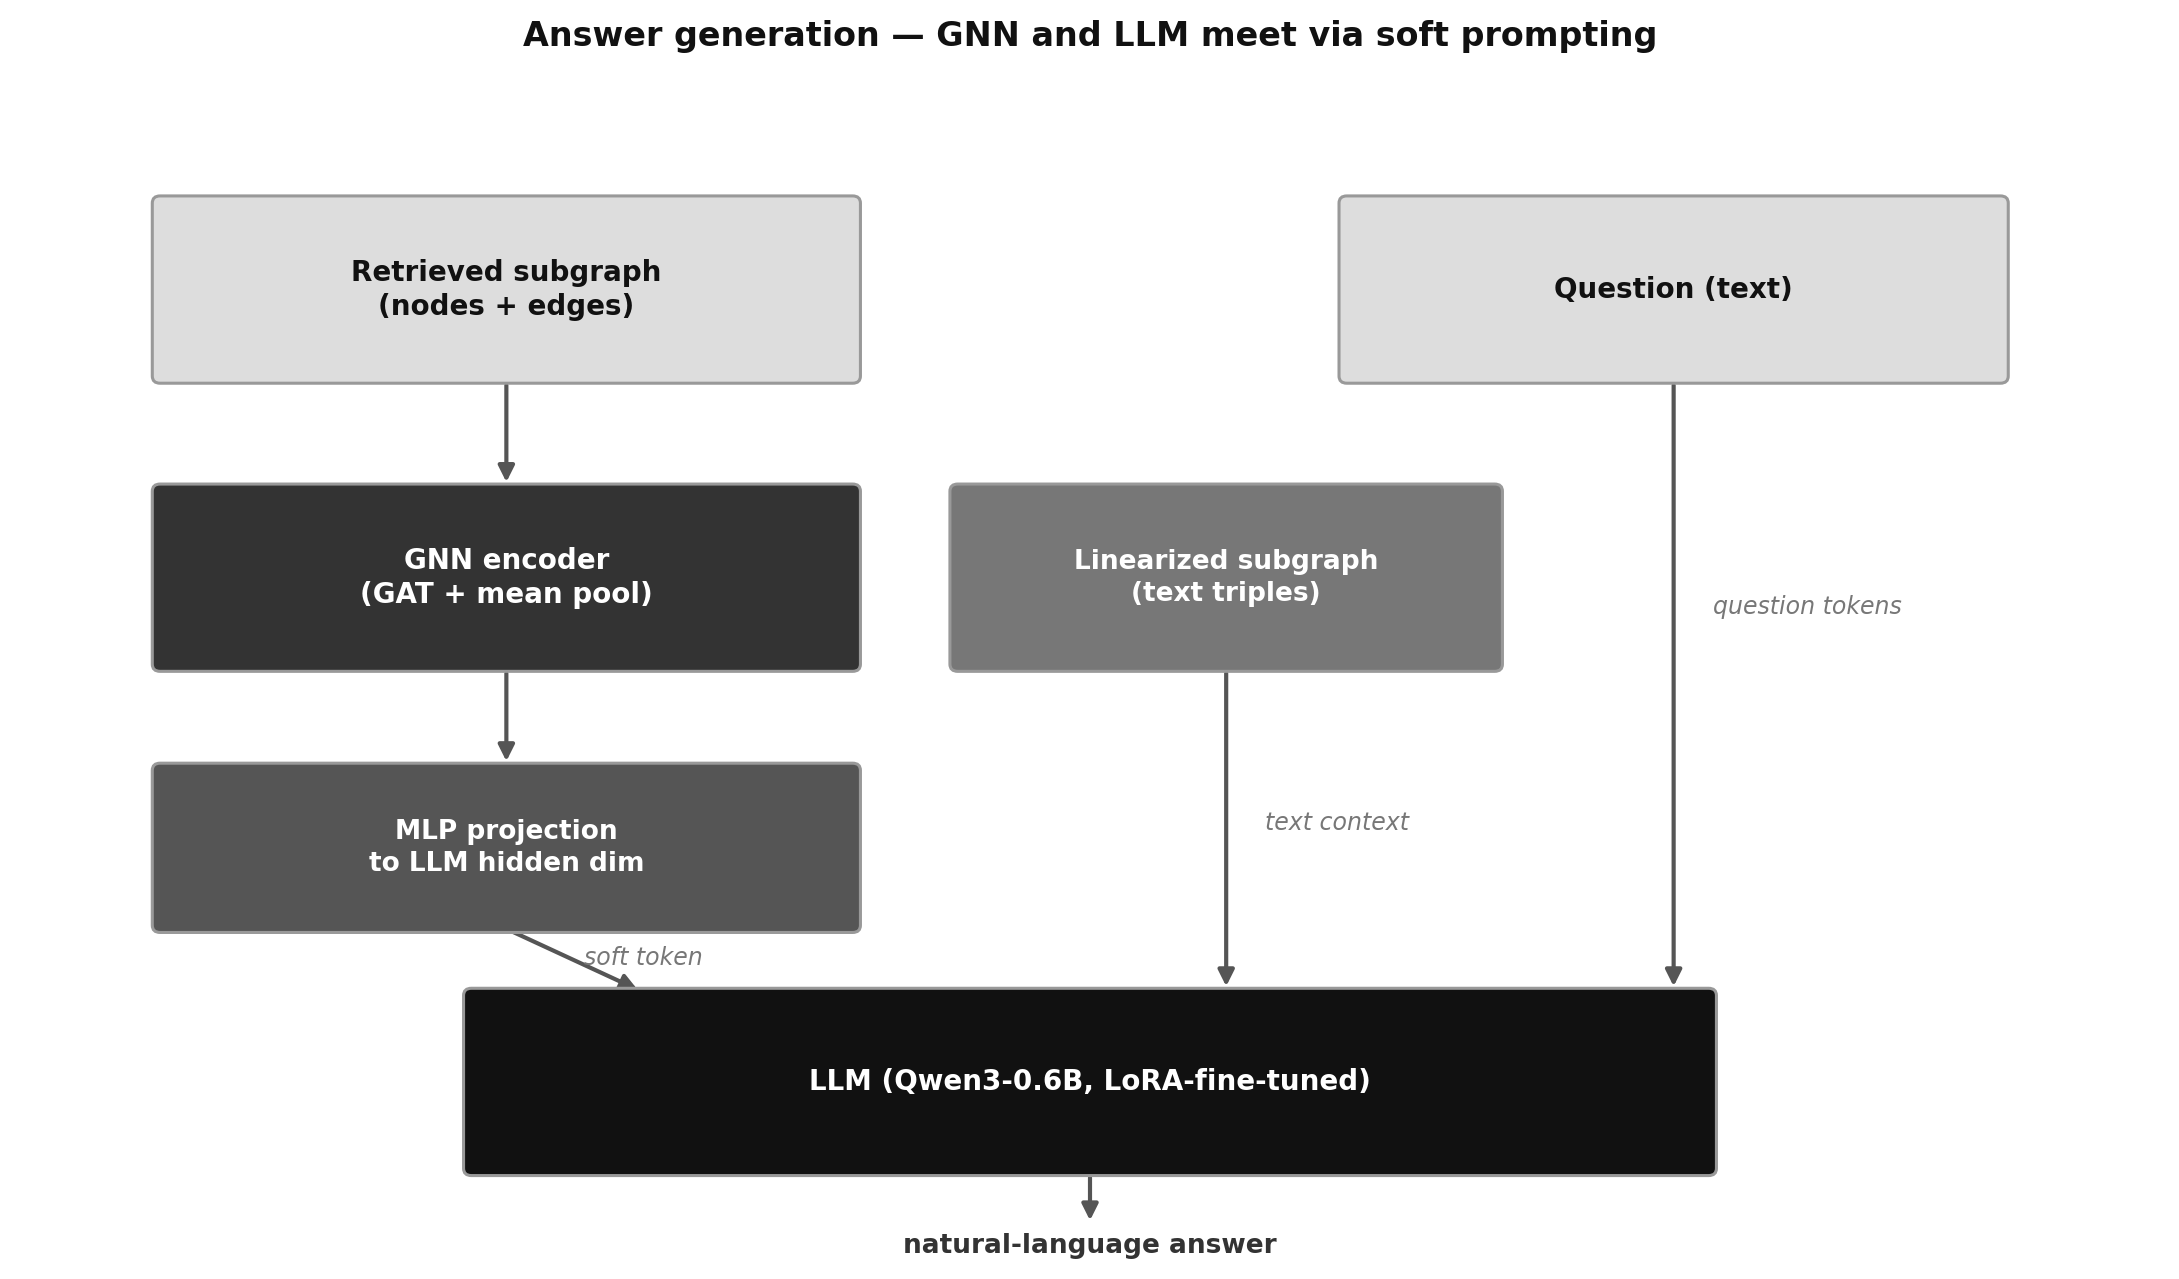
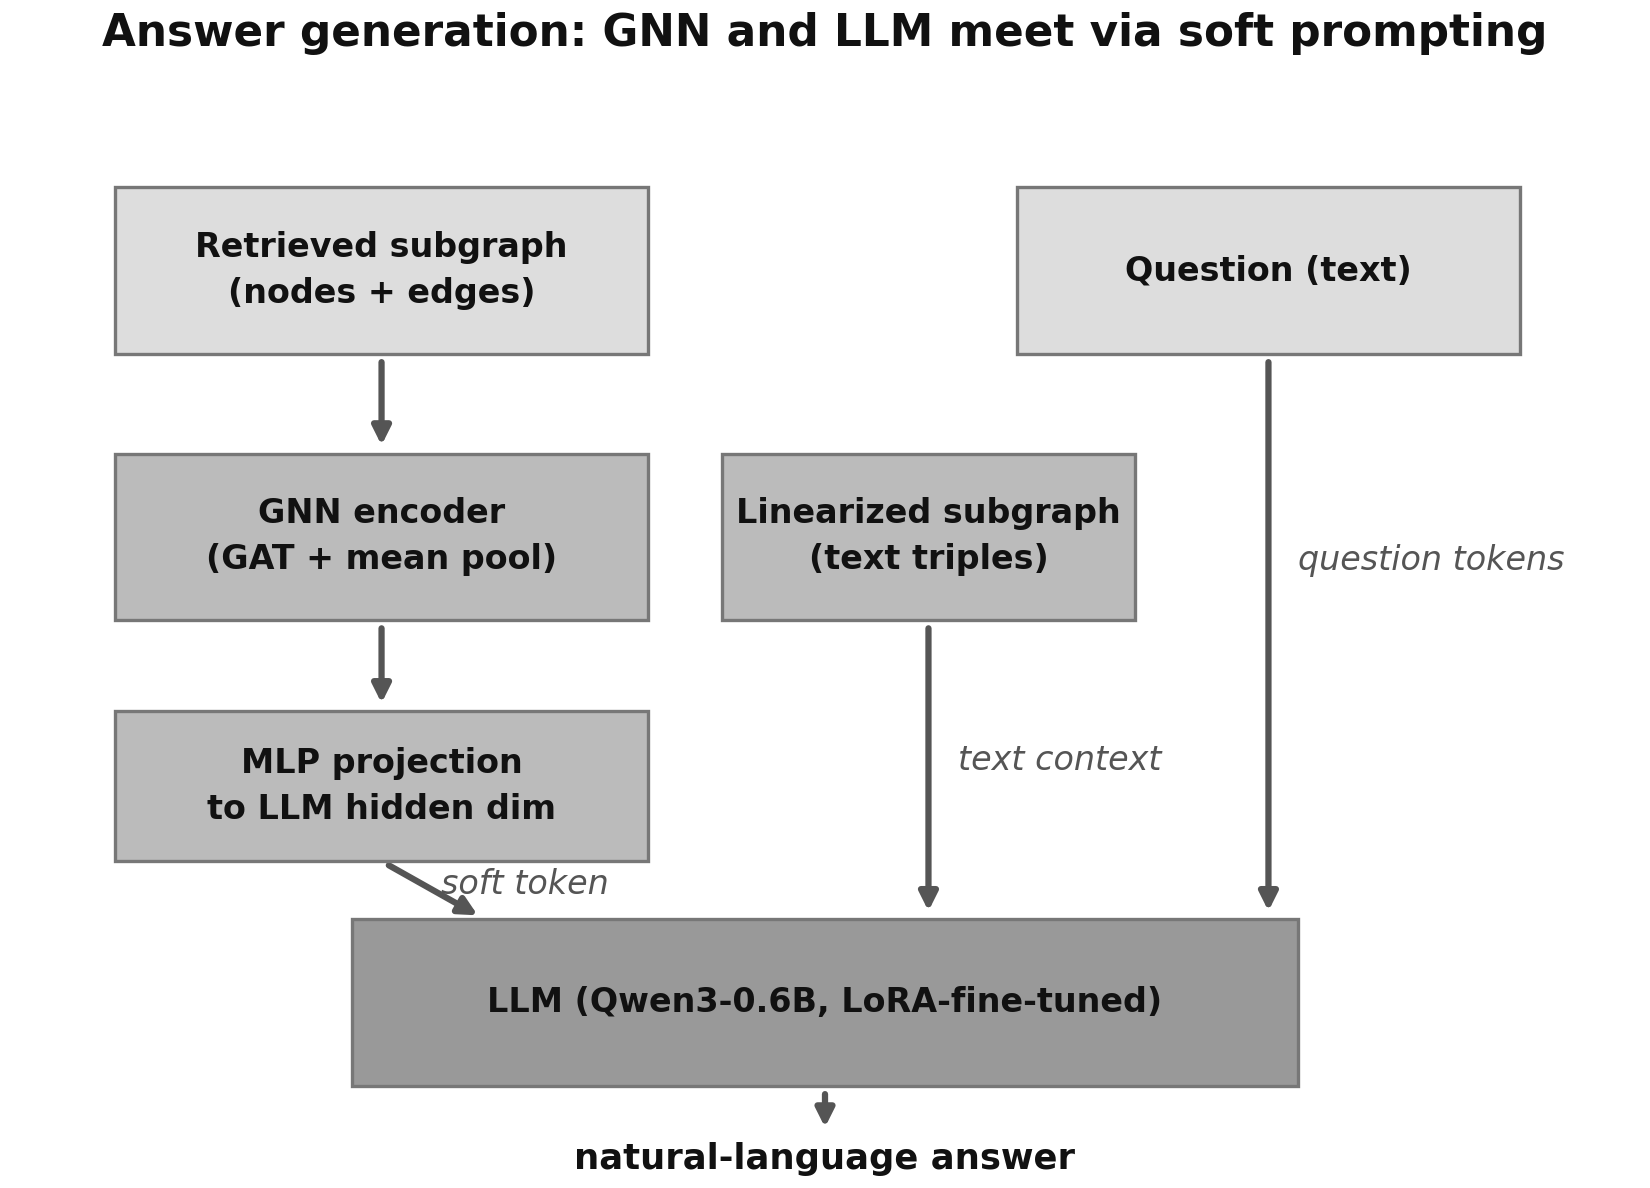
Redraw Chapter 19's three figures at the printed width
All three were rejected for readability. The G-Retriever pipeline ran its four
stages across 13 inches and now runs down the page, each stage beside what
feeds it. 19.3 stacks its two panels: side by side, the right-hand panel's
category labels would have taken most of its 2.7 inches.

The run reproduces the baseline: 334 samples both models answer correctly, 11
only G-Retriever, 13 only the LoRA baseline, 40 neither.

diff --git a/Chapter19/figures/generate_figures.py b/Chapter19/figures/generate_figures.py
@@ -8,132 +8,112 @@ fig19_2_soft_prompting.png        answer generation with soft prompting
 Figure 19.3 is derived from the test results and produced by run.py.
 """
 
-import matplotlib
-matplotlib.use('Agg')
-import matplotlib.pyplot as plt
-from matplotlib.patches import FancyBboxPatch
 import os
+import sys
 
-OUT  = os.path.dirname(os.path.abspath(__file__))
+from matplotlib.patches import Rectangle
+
+sys.path.insert(0, os.path.join(os.path.dirname(os.path.abspath(__file__)),
+                                '..', '..', 'tools'))
+from bookstyle import (apply, figure, save as save_fig, FONT, BG, INK,
+                       INK_SOFT, FILLS, G1, G2, G3, G4, G5, G6)
+
+plt = apply()
+G0 = "#111111"
+OUT = os.path.dirname(os.path.abspath(__file__))
 os.makedirs(OUT, exist_ok=True)
 
-FONT = "DejaVu Sans"
-BG   = "white"
-G0   = "#111111"; G1 = "#333333"; G2 = "#555555"
-G3   = "#777777"; G4 = "#999999"; G5 = "#BBBBBB"; G6 = "#DDDDDD"
 
-
-def save(fig, name, dpi=200):
-    fig.savefig(f"{OUT}/{name}", dpi=dpi, bbox_inches='tight',
-                facecolor=BG, edgecolor='none')
-    plt.close(fig)
+def save(fig, name):
+    save_fig(fig, os.path.join(OUT, name))
     print(f"  saved {name}")
 
 
-def rbox(ax, x, y, w, h, label, fill=G2, fc='white', fs=9, r=0.04):
-    rect = FancyBboxPatch((x-w/2, y-h/2), w, h,
-                          boxstyle=f"round,pad=0.02,rounding_size={r}",
-                          facecolor=fill, edgecolor=G4,
-                          linewidth=1.1, zorder=3)
-    ax.add_patch(rect)
-    ax.text(x, y, label, ha='center', va='center', fontsize=fs, color=fc,
-            fontweight='bold', fontfamily=FONT, linespacing=1.3,
+def rbox(ax, x, y, w, h, label, fill=G6, fc=None, fs=8, r=0.04):
+    """Square corners, dark type on a light fill; `fc` is ignored."""
+    ax.add_patch(Rectangle((x-w/2, y-h/2), w, h, facecolor=fill,
+                           edgecolor=G3, linewidth=0.8, zorder=3))
+    ax.text(x, y, label, ha='center', va='center', fontsize=fs, color=INK,
+            fontweight='bold', fontfamily=FONT, linespacing=1.5,
             multialignment='center', zorder=4)
 
 
-def arr(ax, x1, y1, x2, y2, color=G2, lw=1.4, style="-|>"):
+def arr(ax, x1, y1, x2, y2, color=G3, lw=1.1, style="-|>"):
     ax.annotate("", xy=(x2, y2), xytext=(x1, y1),
                 arrowprops=dict(arrowstyle=style, color=color,
-                                lw=lw, mutation_scale=12), zorder=2)
+                                lw=lw, mutation_scale=9), zorder=2)
 
 
-# ── Fig 19.1: G-Retriever pipeline (4 stages) ────────────────────────────────
-print("Figure 19.1 …")
-fig, ax = plt.subplots(figsize=(13, 5.5))
-fig.patch.set_facecolor(BG); ax.set_facecolor(BG); ax.axis('off')
-ax.set_xlim(0, 13); ax.set_ylim(0, 5.5)
+# ── Fig 19.1: G-Retriever pipeline (4 stages) ───────────────────────
+# Four stages across needed 13 inches. They run down the page instead, each
+# with what goes into it on its left.
+print("Figure 19.1 \u2026")
+fig, ax = figure(aspect=0.92)
+ax.set_facecolor(BG); ax.axis('off')
+ax.set_xlim(0, 1); ax.set_ylim(0, 1)
 
-# Timeline labels
-ax.text(2.0, 4.6, "1. Indexing (offline)", ha='center', fontsize=10,
-        color=G3, fontfamily=FONT, fontstyle='italic')
-ax.text(5.3, 4.6, "2. Retrieval", ha='center', fontsize=10,
-        color=G3, fontfamily=FONT, fontstyle='italic')
-ax.text(8.4, 4.6, "3. Subgraph construction", ha='center', fontsize=10,
-        color=G3, fontfamily=FONT, fontstyle='italic')
-ax.text(11.5, 4.6, "4. Answer generation", ha='center', fontsize=10,
-        color=G3, fontfamily=FONT, fontstyle='italic')
+STAGES = [
+    ("1. Indexing (offline)", "knowledge graph",
+     "SentenceBERT embeddings\nof nodes and edges"),
+    ("2. Retrieval", "user question",
+     "cosine similarity:\nquery vs nodes and edges"),
+    ("3. Subgraph construction", "scored nodes/edges",
+     "Prize-Collecting\nSteiner Tree (pcst_fast)"),
+    ("4. Answer generation", "connected subgraph",
+     "GNN encoder + LLM\n(soft prompt)"),
+]
+TOP, STEP = 0.90, 0.215
+for i, (phase, feed, stage) in enumerate(STAGES):
+    y = TOP - i * STEP
+    ax.text(0.0, y + 0.085, phase, ha='left', va='center', fontsize=8,
+            color=INK_SOFT, fontfamily=FONT, fontstyle='italic')
+    rbox(ax, 0.20, y, 0.36, 0.085, feed, fill=G6, fs=8)
+    arr(ax, 0.39, y, 0.46, y)
+    rbox(ax, 0.74, y, 0.48, 0.125, stage, fill=FILLS[1], fs=8)
+    if i:
+        arr(ax, 0.74, y + STEP - 0.063, 0.74, y + 0.063)
 
-# Stage boxes
-rbox(ax, 2.0, 3.5, 2.6, 1.1, "SentenceBERT\nnode + edge\nembeddings",
-     fill=G1, fc='white', fs=9)
-rbox(ax, 5.3, 3.5, 2.6, 1.1, "cosine similarity\nquery vs\nnodes/edges",
-     fill=G2, fc='white', fs=9)
-rbox(ax, 8.4, 3.5, 2.6, 1.1, "Prize-Collecting\nSteiner Tree\n(pcst_fast)",
-     fill=G0, fc='white', fs=9)
-rbox(ax, 11.5, 3.5, 2.6, 1.1, "GNN encoder\n+ LLM\n(soft prompt)",
-     fill=G1, fc='white', fs=9)
+arr(ax, 0.74, 0.192, 0.74, 0.115)
+ax.text(0.74, 0.07, "natural-language answer", ha='center', va='center',
+        fontsize=8.5, color=INK, fontweight='bold', fontfamily=FONT)
 
-# Arrows between stages
-arr(ax, 3.4, 3.5, 4.0, 3.5, color=G2, lw=1.6)
-arr(ax, 6.7, 3.5, 7.1, 3.5, color=G2, lw=1.6)
-arr(ax, 9.8, 3.5, 10.2, 3.5, color=G2, lw=1.6)
-
-# Inputs/outputs (row below)
-rbox(ax, 2.0, 1.6, 2.4, 0.7, "knowledge graph", fill=G6, fc=G0, fs=8.5)
-rbox(ax, 5.3, 1.6, 2.4, 0.7, "user question", fill=G6, fc=G0, fs=8.5)
-rbox(ax, 8.4, 1.6, 2.4, 0.7, "scored nodes/edges", fill=G6, fc=G0, fs=8.5)
-rbox(ax, 11.5, 1.6, 2.4, 0.7, "connected subgraph", fill=G6, fc=G0, fs=8.5)
-
-# Vertical connectors (inputs go up into the stage boxes)
-arr(ax, 2.0, 1.95, 2.0, 2.85, color=G3, lw=1.2)
-arr(ax, 5.3, 1.95, 5.3, 2.85, color=G3, lw=1.2)
-arr(ax, 8.4, 1.95, 8.4, 2.85, color=G3, lw=1.2)
-arr(ax, 11.5, 1.95, 11.5, 2.85, color=G3, lw=1.2)
-
-# Final output arrow (bottom right, out of stage 4)
-ax.text(11.5, 0.5, "natural-language answer",
-        ha='center', fontsize=9.5, color=G1, fontfamily=FONT,
-        fontweight='bold')
-
-ax.set_title("The four stages of G-Retriever",
-             fontsize=12, fontweight='bold', color=G0, fontfamily=FONT,
-             pad=10)
-fig.tight_layout()
+ax.set_title("The four stages of G-Retriever", fontsize=10.5,
+             fontweight='bold', color=INK, fontfamily=FONT)
 save(fig, "fig19_1_gretriever_pipeline.png")
 
 
 # ── Fig 19.2: Answer generation block with soft prompting ────────────────────
 print("Figure 19.2 …")
-fig, ax = plt.subplots(figsize=(11, 6.5))
-fig.patch.set_facecolor(BG); ax.set_facecolor(BG); ax.axis('off')
+fig, ax = figure(aspect=0.72)
+ax.set_facecolor(BG); ax.axis('off')
 ax.set_xlim(0, 11); ax.set_ylim(0, 6.5)
 
 # Input: retrieved subgraph
 rbox(ax, 2.5, 5.3, 3.6, 1.0, "Retrieved subgraph\n(nodes + edges)",
-     fill=G6, fc=G0, fs=10)
+     fill=G6, fs=8)
 
 # Input: question
 rbox(ax, 8.5, 5.3, 3.4, 1.0, "Question (text)",
-     fill=G6, fc=G0, fs=10)
+     fill=G6, fs=8)
 
 # GNN branch
 rbox(ax, 2.5, 3.7, 3.6, 1.0, "GNN encoder\n(GAT + mean pool)",
-     fill=G1, fc='white', fs=10)
+     fill=FILLS[1], fs=8)
 arr(ax, 2.5, 4.8, 2.5, 4.2, color=G2, lw=1.5)
 
 # MLP projection
 rbox(ax, 2.5, 2.2, 3.6, 0.9, "MLP projection\nto LLM hidden dim",
-     fill=G2, fc='white', fs=9.5)
+     fill=FILLS[1], fs=8)
 arr(ax, 2.5, 3.2, 2.5, 2.65, color=G2, lw=1.5)
 
 # Linearized subgraph (text)
 rbox(ax, 6.2, 3.7, 2.8, 1.0, "Linearized subgraph\n(text triples)",
-     fill=G3, fc='white', fs=9.5)
+     fill=FILLS[1], fs=8)
 
 # LLM
 rbox(ax, 5.5, 0.9, 6.4, 1.0,
      "LLM (Qwen3-0.6B, LoRA-fine-tuned)",
-     fill=G0, fc='white', fs=10)
+     fill=FILLS[2], fs=8)
 
 # Concatenation of three inputs at LLM
 arr(ax, 2.5, 1.75, 3.2, 1.4, color=G2, lw=1.5)
@@ -141,23 +121,21 @@ arr(ax, 6.2, 3.2, 6.2, 1.4, color=G2, lw=1.5)
 arr(ax, 8.5, 4.8, 8.5, 1.4, color=G2, lw=1.5)
 
 # Labels on the three input paths
-ax.text(2.9, 1.55, "soft token", ha='left', fontsize=8.5, color=G3,
+ax.text(2.9, 1.55, "soft token", ha='left', fontsize=8, color=INK_SOFT,
         fontfamily=FONT, fontstyle='italic')
-ax.text(6.4, 2.3, "text context", ha='left', fontsize=8.5, color=G3,
+ax.text(6.4, 2.3, "text context", ha='left', fontsize=8, color=INK_SOFT,
         fontfamily=FONT, fontstyle='italic')
-ax.text(8.7, 3.5, "question tokens", ha='left', fontsize=8.5, color=G3,
+ax.text(8.7, 3.5, "question tokens", ha='left', fontsize=8, color=INK_SOFT,
         fontfamily=FONT, fontstyle='italic')
 
 # Output
 arr(ax, 5.5, 0.4, 5.5, 0.1, color=G2, lw=1.5)
-ax.text(5.5, -0.05, "natural-language answer",
-        ha='center', fontsize=9.5, color=G1, fontfamily=FONT,
+ax.text(5.5, -0.1, "natural-language answer",
+        ha='center', fontsize=8.5, color=INK, fontfamily=FONT,
         fontweight='bold')
 
-ax.set_title("Answer generation — GNN and LLM meet via soft prompting",
-             fontsize=12, fontweight='bold', color=G0, fontfamily=FONT,
-             pad=10)
-fig.tight_layout()
+ax.set_title("Answer generation: GNN and LLM meet via soft prompting",
+             fontsize=10.5, fontweight='bold', color=INK, fontfamily=FONT)
 save(fig, "fig19_2_soft_prompting.png")
 
 print(f"\nFigures saved to {OUT}")

diff --git a/Chapter19/run.py b/Chapter19/run.py
@@ -21,6 +21,7 @@ PART 5  Figure 19.3 from the comparison, saved to figures/
 import csv
 import json
 import os
+import sys
 import random
 import re
 import urllib.request
@@ -332,46 +333,50 @@ print('PART 5 - Figure 19.3')
 print('=' * 70)
 
 FONT = 'DejaVu Sans'
-G0 = '#111111'; G1 = '#333333'; G2 = '#555555'
-G3 = '#777777'; G4 = '#999999'; G5 = '#BBBBBB'; G6 = '#DDDDDD'
-plt.rcParams['font.family'] = FONT
+sys.path.insert(0, os.path.join(HERE, '..', 'tools'))
+from bookstyle import (apply, figure, save as save_fig, INK, INK_SOFT,
+                       G3 as BG3, G4 as BG4, G5 as BG5, G6 as BG6)
+
+apply()
+G0 = '#111111'
 
 acc = [100 * sum(results[s]) / n for s in SYSTEMS]
 names = ['G-Retriever', 'G-Retriever\nwithout soft prompt', 'LoRA baseline\n(no GNN)']
 counts = [both, g_only, b_only, neither]
 
-fig, axes = plt.subplots(1, 2, figsize=(13, 4.8),
-                         gridspec_kw={'width_ratios': [1.2, 1.4]})
+# Stacked, not side by side: at 5.5 inches the right panel's category
+# labels would take most of its 2.7.
+fig, axes = figure(aspect=0.95, nrows=2)
 
 ax = axes[0]
-bars = ax.bar(names, acc, color=[G1, G5, G3], edgecolor=G0, width=0.55)
+bars = ax.bar(names, acc, color=[BG4, BG6, BG5], edgecolor=BG3, width=0.55)
 for bar, value in zip(bars, acc):
     ax.text(bar.get_x() + bar.get_width() / 2, value + 1.5, f'{value:.1f}%',
-            ha='center', fontsize=11, fontweight='bold', color=G0)
+            ha='center', fontsize=8.5, fontweight='bold', color=INK)
 ax.set_ylim(0, 100)
-ax.set_ylabel('Test accuracy (%)', fontsize=10, color=G0)
-ax.set_title(f'Accuracy on {n} test samples', fontsize=11, color=G0)
+ax.set_ylabel('Test accuracy (%)', fontsize=9, color=INK)
+ax.set_title(f'Accuracy on {n} test samples', fontsize=9.5, color=INK,
+             fontweight='bold')
 
 ax = axes[1]
 labels = ['Both correct', 'G-Retriever only', 'LoRA baseline only',
           'Both wrong']
-bars = ax.barh(labels[::-1], counts[::-1], color=[G5, G3, G1, G6][::-1],
-               edgecolor=G0, height=0.55)
+bars = ax.barh(labels[::-1], counts[::-1], color=[BG6, BG5, BG4, BG6][::-1],
+               edgecolor=BG3, height=0.55)
 for bar, value in zip(bars, counts[::-1]):
     ax.text(bar.get_width() + 3, bar.get_y() + bar.get_height() / 2,
-            str(value), va='center', fontsize=11, fontweight='bold', color=G0)
+            str(value), va='center', fontsize=8.5, fontweight='bold',
+            color=INK)
 ax.set_xlim(0, max(counts) * 1.15)
-ax.set_xlabel('Number of test samples', fontsize=10, color=G0)
-ax.set_title('G-Retriever vs LoRA baseline', fontsize=11, color=G0)
+ax.set_xlabel('Number of test samples', fontsize=9, color=INK)
+ax.set_title('G-Retriever vs LoRA baseline', fontsize=9.5, color=INK,
+             fontweight='bold')
 
 for ax in axes:
     ax.spines[['top', 'right']].set_visible(False)
-    ax.tick_params(colors=G0, labelsize=10)
+    ax.tick_params(colors=INK, labelsize=8.5)
 
-fig.tight_layout()
-fig.savefig(os.path.join(FIG_DIR, 'fig19_3_gretriever_vs_textonly.png'),
-            dpi=200, bbox_inches='tight', facecolor='white')
-plt.close(fig)
+save_fig(fig, os.path.join(FIG_DIR, 'fig19_3_gretriever_vs_textonly.png'))
 print('  saved figures/fig19_3_gretriever_vs_textonly.png')
 
 print('\nDone.')
